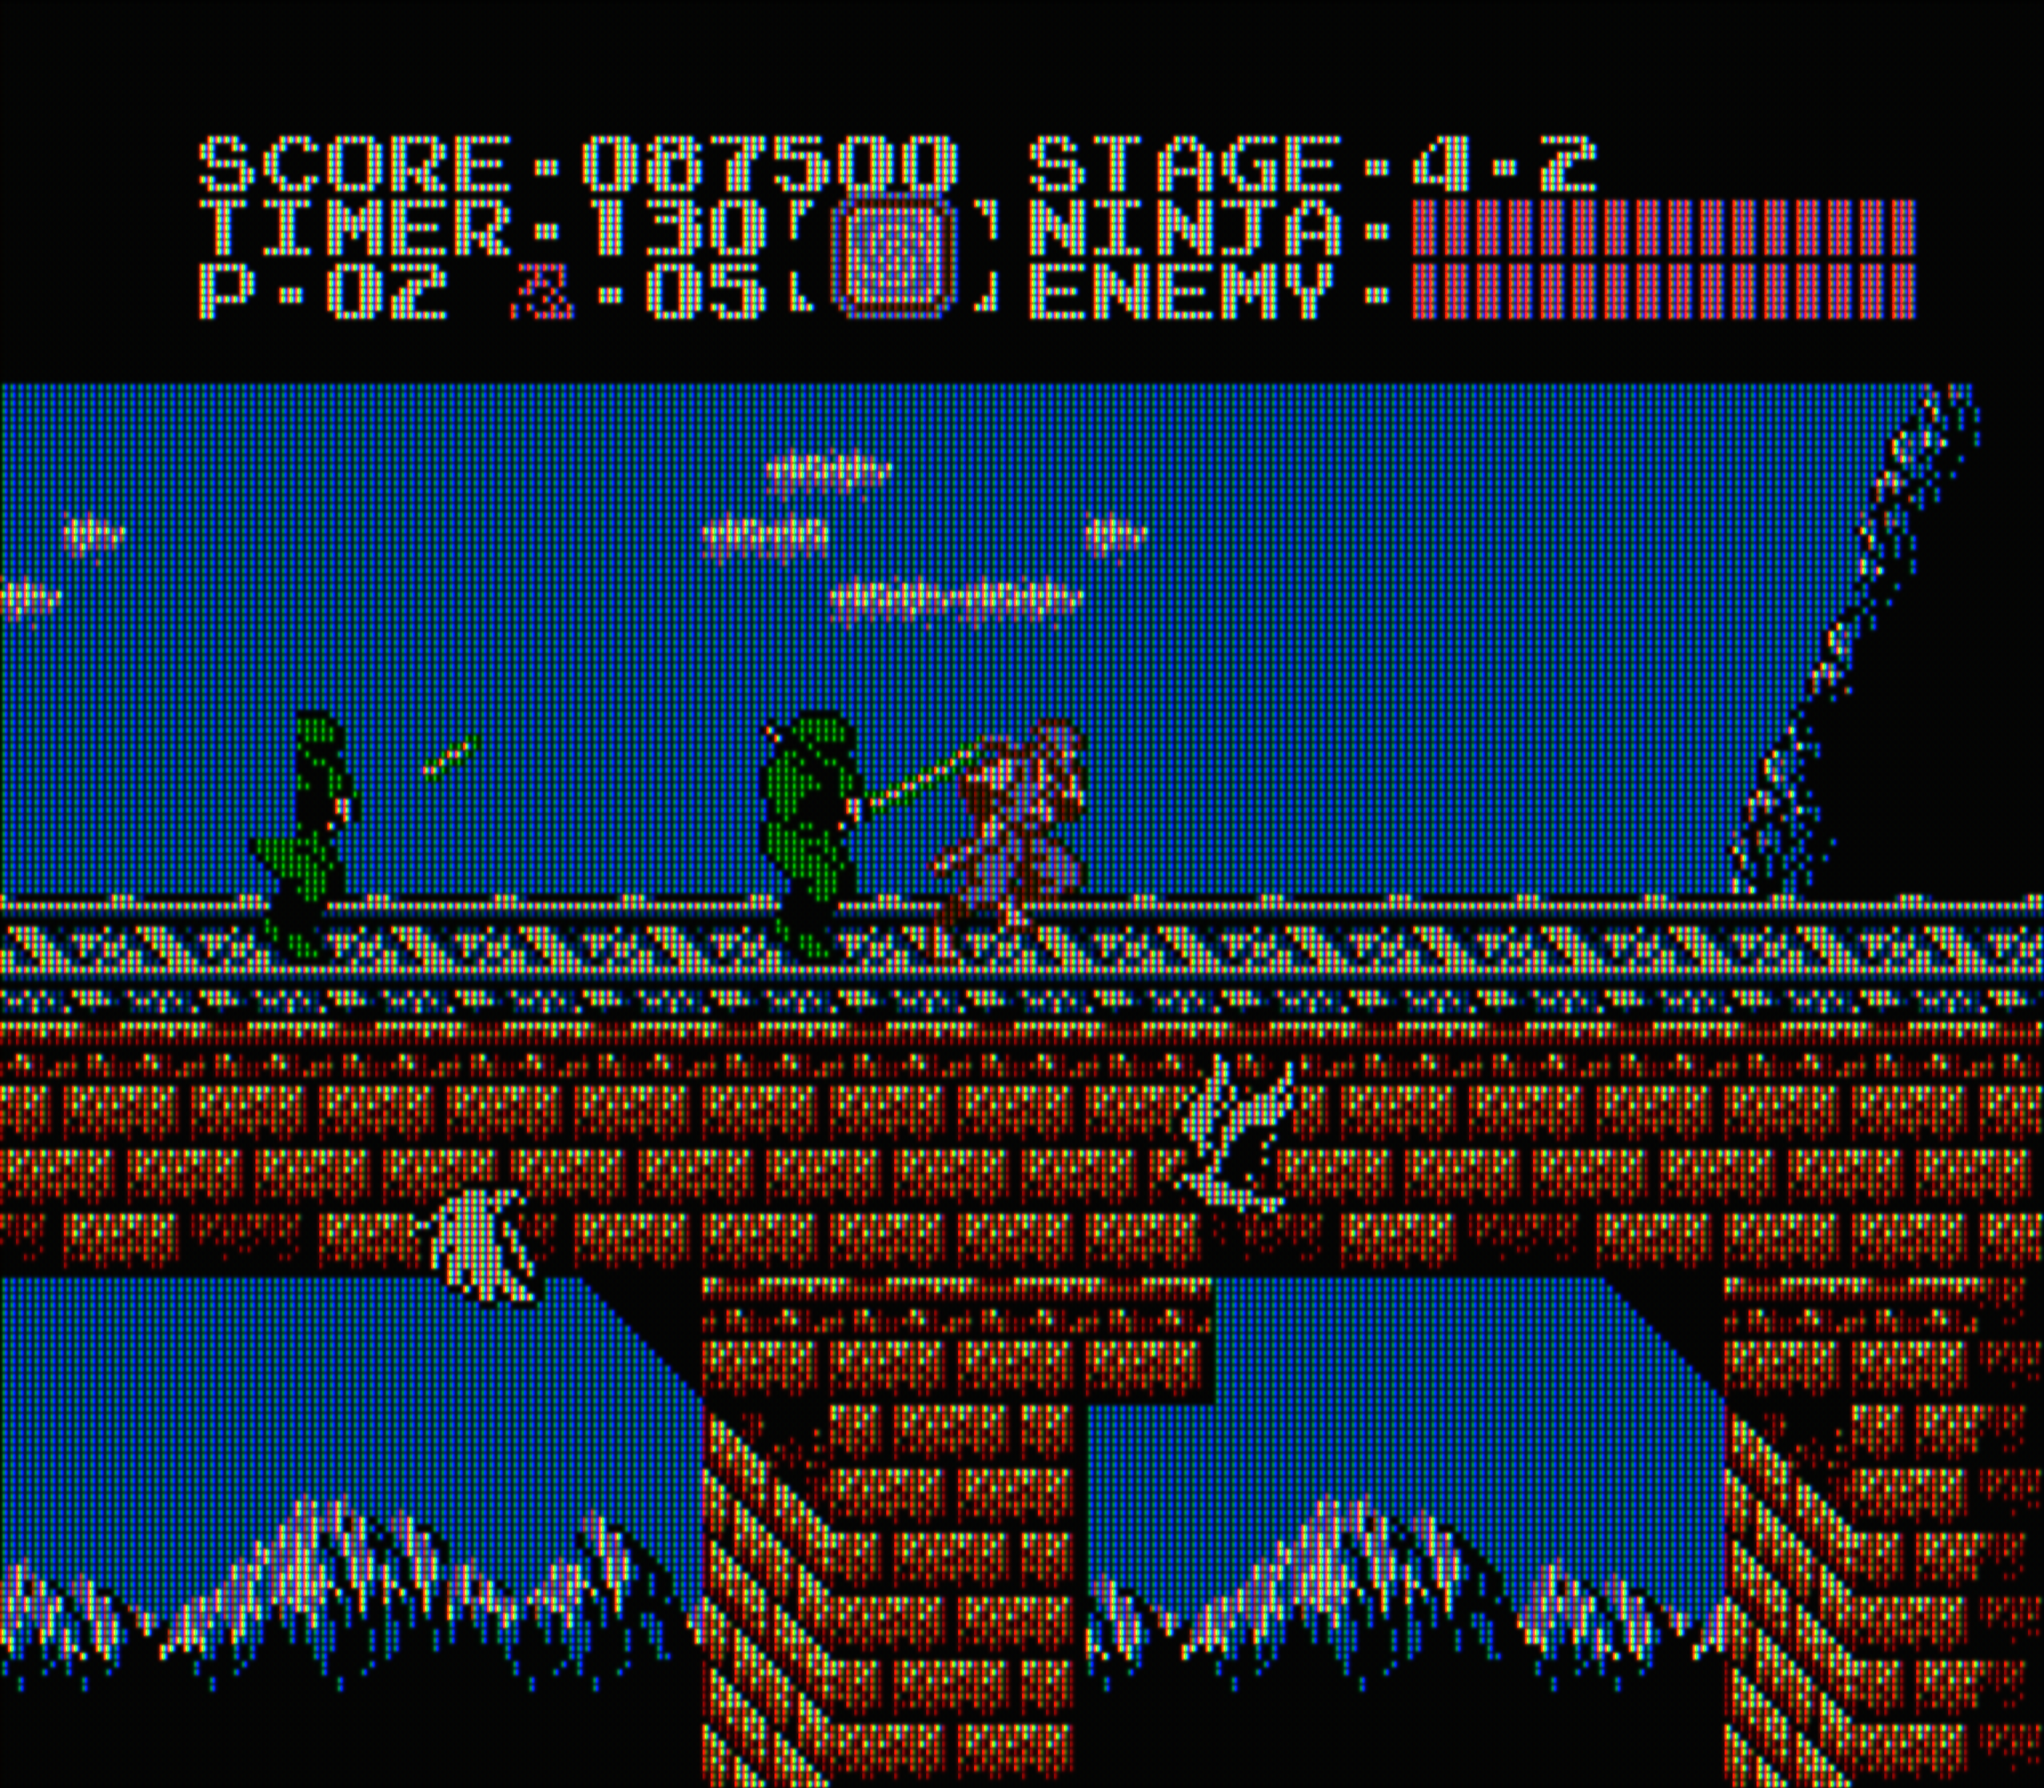
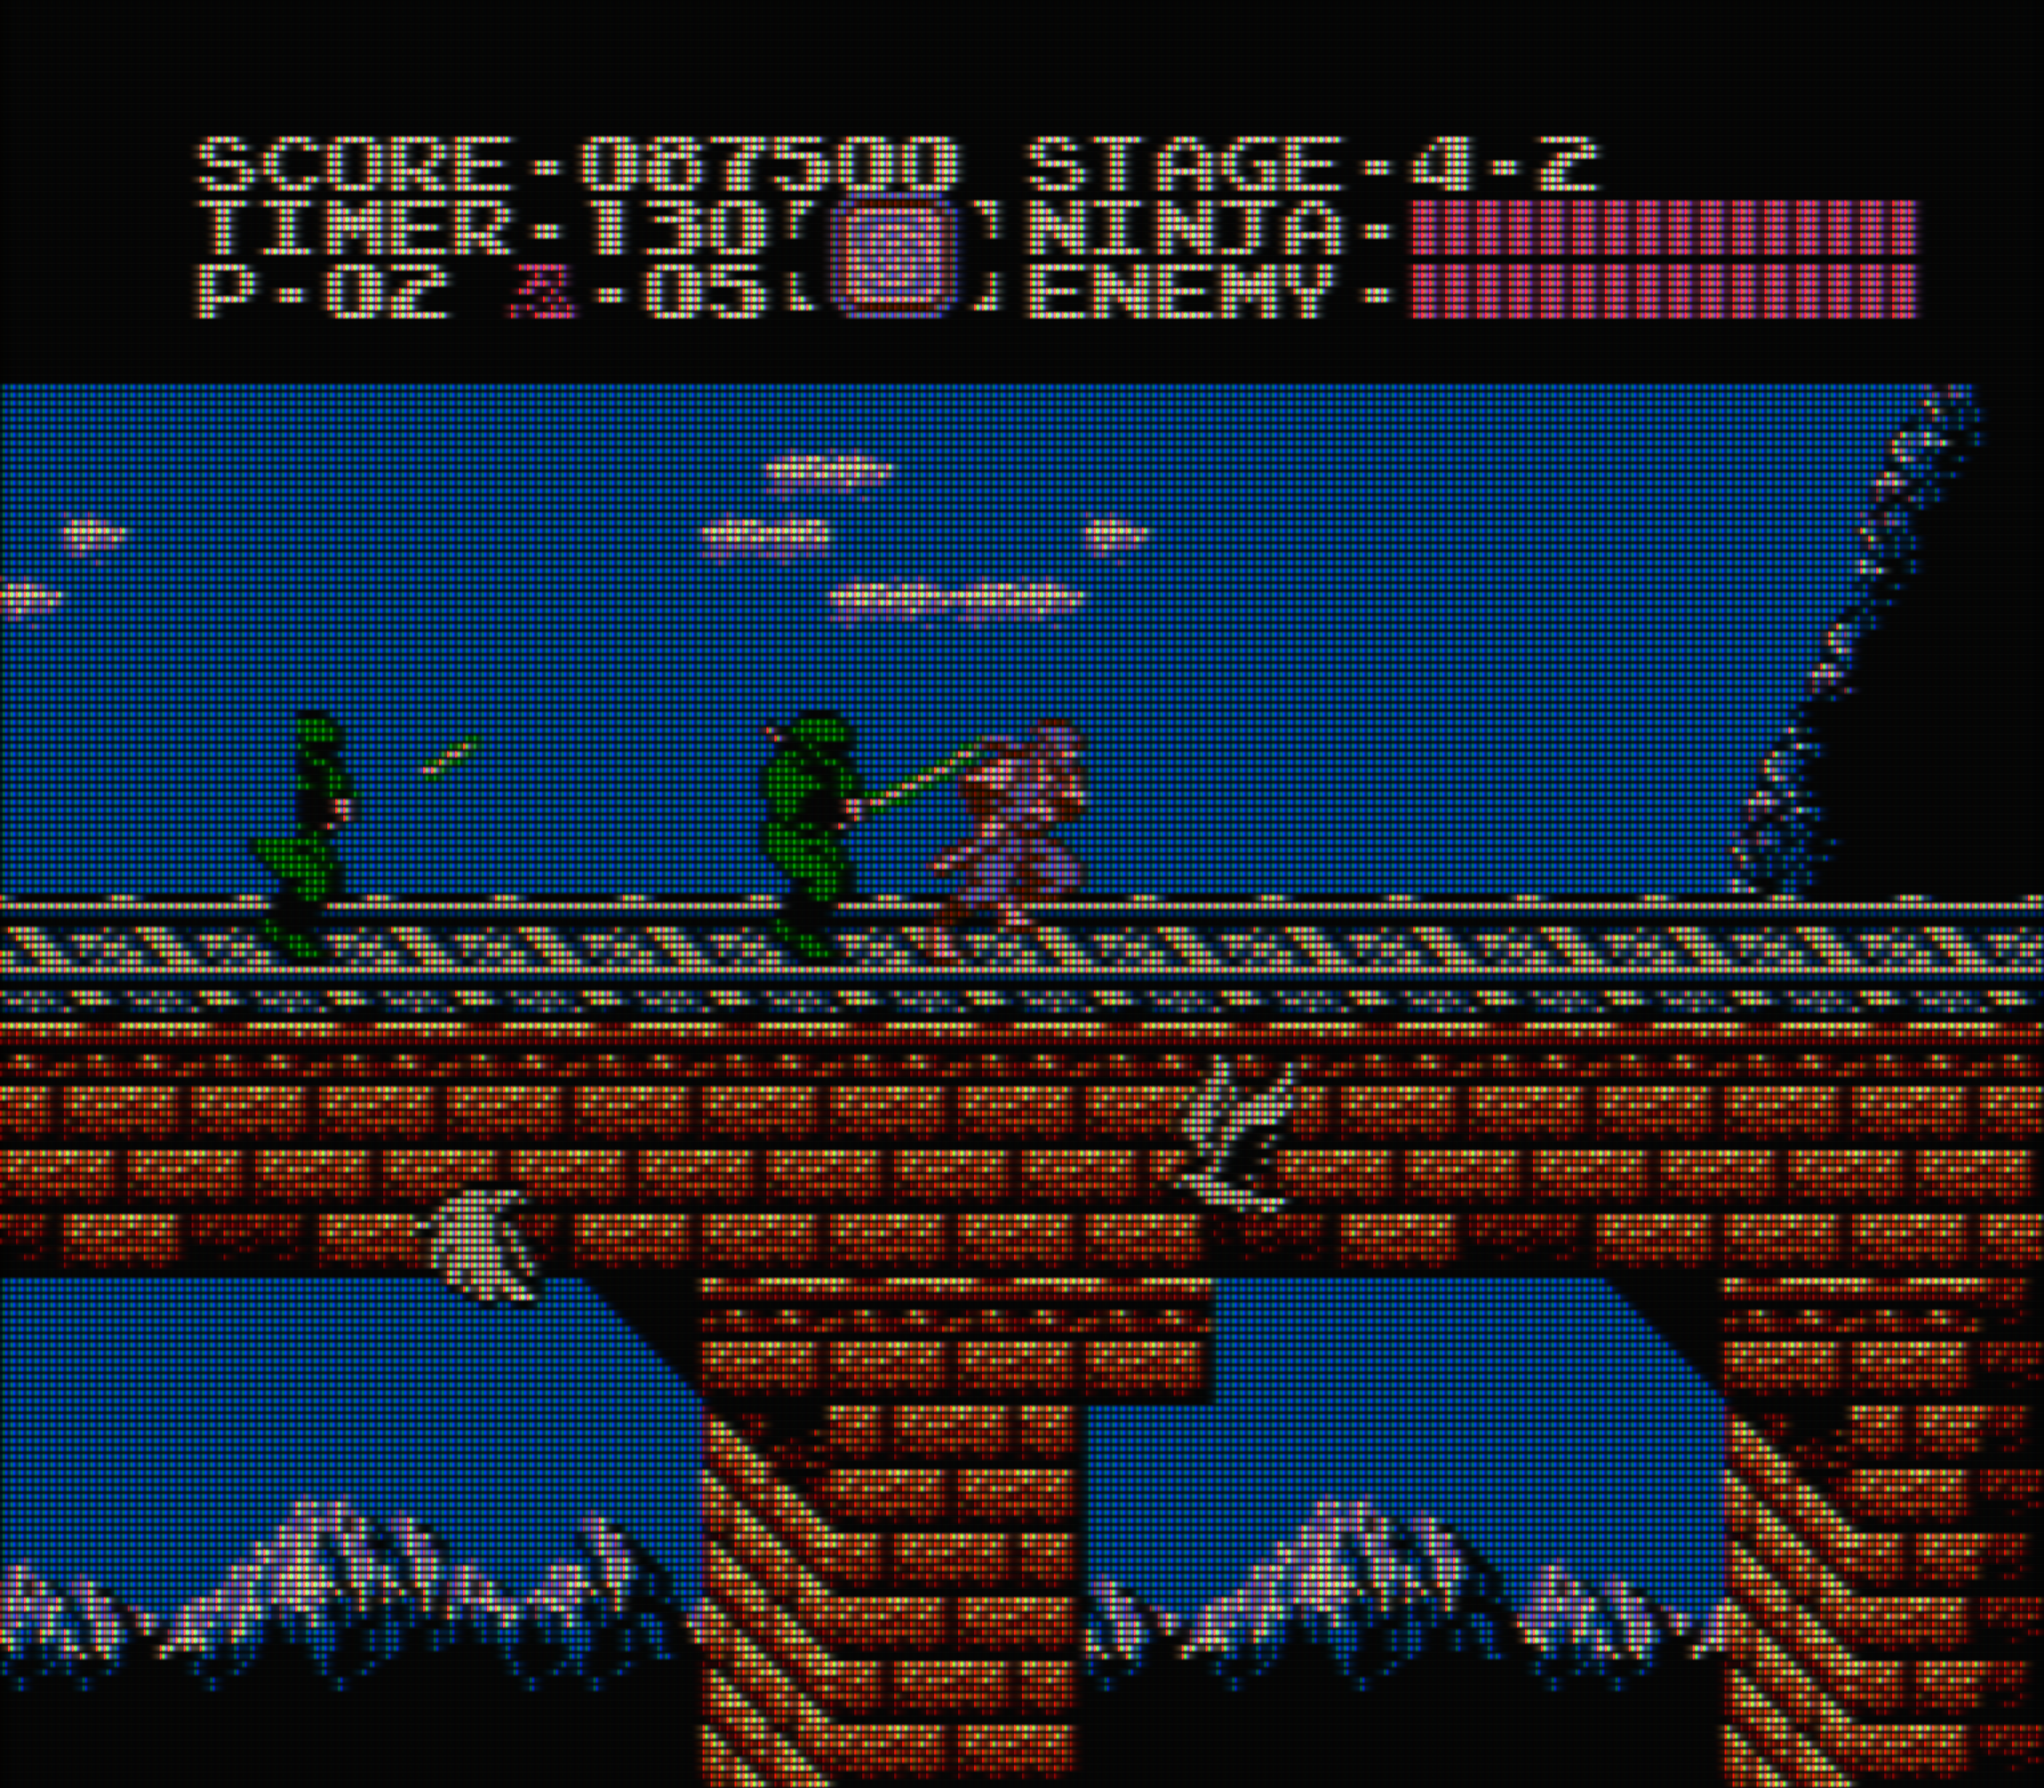
Fixed a bug, improved default glow
Turns out the glow wasn't centering itself because I forgot to implement the offset properly. That's fixed now

diff --git a/Squishy Scale.py b/Squishy Scale.py
@@ -52,7 +52,7 @@ def Upscale(Surface):
 			PixelImage2=GlowImage.copy()
 			PixelImage2.fill(Surface.get_at((x,y)))
 			PixelImage2.blit(GlowImage,(0,0),special_flags=pygame.BLEND_MULT)
-			BigSurface.blit(PixelImage2,(X-6,Y-6),special_flags=pygame.BLEND_ADD)
+			BigSurface.blit(PixelImage2,(X-Offset[0],Y-Offset[1]),special_flags=pygame.BLEND_ADD)
 
 	#Function returns the upscaled image
 	return BigSurface
